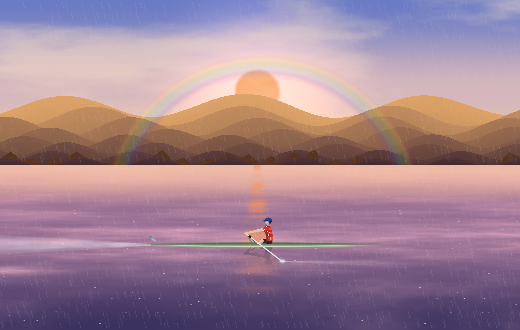
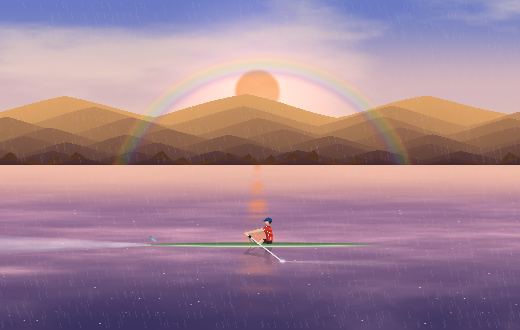
Let the peaks take angles, slowly
The hills have always been domes: the ridge is a sine, and a sine is
round. The range now has a second shape, and it takes it from the
chain - the same source as the agitation and the faster water.

u_sharp moves the crest from a sine to a triangle. The two share the
same rhythm, the same length of wave and the same amplitude, so the
range does not change size when it changes shape: the hills can take
angles without the land jumping under the boat. The pines use the same
profile as the band they stand on, so they never detach from a peak.

It is a slow evolution, not a reflex. rowing_display.js slews the
sharpness with a thirty second time constant, so the range takes about
a minute to reach the shape the chain is asking for, and gives it back
just as slowly when the chain drops. The path stops at 75%: the peaks
take angles, they do not turn into a saw blade.

The shader test draws the same scene twice with the chain down in both
and only u_sharp different - the hills breathe identically in the two
frames - and checks that the pixels still move. If the peaks did not
change shape, nothing above the horizon could.

diff --git a/tests/e2e/shader.spec.js b/tests/e2e/shader.spec.js
@@ -210,11 +210,11 @@ test('the ghost changes what the scene looks like', async ({ page }) => {
 // but u_chain, and the pixels of the LAND (the top half of the frame)
 // are compared. If the hills did not breathe, nothing up there would
 // move.
-test('the land answers the chain', async ({ page }) => {
-  const shaders = readShaders();
-
-  await page.goto('about:blank');
-  const diff = await page.evaluate(({ vs, fs }) => {
+// Draws the land twice, with the uniforms of each draw given, and
+// reports how many pixels of the top half moved. The chain and the
+// sharpness are the only things that can differ.
+async function landDiff(page, shaders, a, b) {
+  return page.evaluate(({ vs, fs, a, b }) => {
     const W = 480, H = 300;
     const canvas = document.createElement('canvas');
     canvas.width = W; canvas.height = H;
@@ -252,7 +252,7 @@ test('the land answers the chain', async ({ page }) => {
     const u = (n) => gl.getUniformLocation(prog, n);
     const pixels = new Uint8Array(W * H * 4);
 
-    function draw(chain) {
+    function draw(o) {
       gl.viewport(0, 0, W, H);
       gl.uniform1f(u('u_time'), 42.0);
       gl.uniform1f(u('u_day'), 3.0);
@@ -262,7 +262,8 @@ test('the land answers the chain', async ({ page }) => {
       gl.uniform1f(u('u_spm'), 24.0);
       gl.uniform1f(u('u_scale'), 0.6);
       gl.uniform1f(u('u_aspect'), W / H);
-      gl.uniform1f(u('u_chain'), chain);
+      gl.uniform1f(u('u_chain'), o.chain || 0);
+      gl.uniform1f(u('u_sharp'), o.sharp || 0);
       gl.uniform3f(u('u_hullA'), 0.75, 0.92, 0.70);
       gl.uniform3f(u('u_hullB'), 0.30, 0.50, 0.30);
       gl.uniform3f(u('u_shirt'), 0.85, 0.20, 0.15);
@@ -279,8 +280,8 @@ test('the land answers the chain', async ({ page }) => {
       return pixels.slice();
     }
 
-    const calm = draw(0.0);
-    const chained = draw(1.0);
+    const calm = draw(a);
+    const chained = draw(b);
 
     // Only the top half: that is the sky and the land. The boat and
     // the water are the lower half, and they answer the chain already.
@@ -299,10 +300,36 @@ test('the land answers the chain', async ({ page }) => {
       }
     }
     return { changed, total, maxDelta };
-  }, shaders);
+  }, { vs: shaders.vs, fs: shaders.fs, a, b });
+}
+
+test('the land answers the chain', async ({ page }) => {
+  const shaders = readShaders();
+
+  await page.goto('about:blank');
+  const diff = await landDiff(page, shaders, { chain: 0 }, { chain: 1 });
 
   expect(diff.error).toBeUndefined();
   // The ridge's edge moves: a band of pixels along the hills, not the
+  // whole sky.
+  expect(diff.changed).toBeGreaterThan(diff.total * 0.005);
+  expect(diff.maxDelta).toBeGreaterThan(8);
+});
+
+// The shape of the range, not only its size. The two draws below are
+// identical but for u_sharp: the chain is down in both, so the hills
+// breathe exactly the same. If the pixels move, the peaks have taken
+// angles - and nothing else could have moved them.
+test('the peaks sharpen when the rower is pushing', async ({ page }) => {
+  const shaders = readShaders();
+
+  await page.goto('about:blank');
+  const diff = await landDiff(page, shaders,
+    { chain: 0, sharp: 0 },
+    { chain: 0, sharp: 1 });
+
+  expect(diff.error).toBeUndefined();
+  // A ridge's edge moves along the hills: a band of pixels, not the
   // whole sky.
   expect(diff.changed).toBeGreaterThan(diff.total * 0.005);
   expect(diff.maxDelta).toBeGreaterThan(8);

diff --git a/rowing_display.html b/rowing_display.html
@@ -123,6 +123,7 @@
     uniform float u_day;   // index of the current 300 s day cycle, for per-day variation
     uniform float u_speed;
     uniform float u_chain;  // 0..1, how well the rower is holding above their own pace
+    uniform float u_sharp;  // 0..1, how angular the peaks are (the chain's answer)
     uniform float u_flow;
     uniform float u_phase;
     uniform float u_spm;
@@ -180,6 +181,21 @@
     }
 
     const float TAU = 6.2831853;
+
+    // The shape of a range.
+    //
+    // A sine is round: the hills are domes, and they always have been.
+    // A triangle has straight flanks and a point at the top: that is
+    // what an angular peak looks like from the water.
+    //
+    // The two share the same rhythm and the same length of wave, so the
+    // range does not change size when it changes shape - the hills can
+    // go from one to the other without the land jumping under the boat.
+    float peakProfile(float x, float sharp) {
+      float rounded = sin(x);
+      float tri = abs(fract((x + 1.5707963) / TAU + 0.5) - 0.5) * 4.0 - 1.0;
+      return mix(rounded, tri, sharp);
+    }
 
     // One layer of fairy lights: soft glowing motes drifting upward. A cell
     // holds at most one mote, kept inside the cell, so one lookup per layer
@@ -436,7 +452,8 @@
           float baseY = horizon + BASE; \
           float scrolled = u - flow * SPD; \
           float n = noise(vec2(scrolled * 8.0, baseY * 5.0)) * 0.5 - 0.25; \
-          float wave = (sin(scrolled * FREQ + PHASE) + n) * AMP * agitation; \
+          float s = peakProfile(scrolled * FREQ + PHASE, u_sharp); \
+          float wave = (s + n) * AMP * agitation; \
           float lineY = baseY + wave; \
           if (y < lineY) { \
             float t = clamp((lineY - y) / (lineY - horizon + 0.001), 0.0, 1.0); \
@@ -463,8 +480,9 @@
           float sc = u - flow * 0.40;
           float baseY = horizon + 0.01;
           // The same ridge as the nearest band, and the same agitation:
-          // the pines must not detach from the hill they stand on.
-          float ridge = baseY + (sin(sc * 44.0 + 2.0) +
+          // the pines must not detach from the hill they stand on. And
+          // the same profile: a sharp peak takes its pines with it.
+          float ridge = baseY + (peakProfile(sc * 44.0 + 2.0, u_sharp) +
                         (noise(vec2(sc * 8.0, baseY * 5.0)) * 0.5 - 0.25)) * 0.007 * agitation;
           // Individual trees are the only discrete (non-wavy) shapes
           // scrolling past, so they read as much faster than a hill band

diff --git a/tests/e2e/scene-shot.js b/tests/e2e/scene-shot.js
@@ -127,6 +127,8 @@ const SHOTS = [
       gl.uniform1f(u('u_scale'), 0.6 * (1 + 0.12 * pulse));
       gl.uniform1f(u('u_aspect'), W / H);
       gl.uniform1f(u('u_chain'), chain);
+      // The peaks follow the chain, exactly as the renderer sends them.
+      gl.uniform1f(u('u_sharp'), chain * 0.75);
       gl.uniform1f(u('u_ghostX'), ghostX);
       gl.uniform1f(u('u_ghostPhase'), 0.08);
       gl.uniform1f(u('u_ghostOn'), ghost);
@@ -186,6 +188,34 @@ const SHOTS = [
       ctx.fillText(labels[i], x, 12);
     }
     out.compare = sheet.toDataURL('image/png');
+
+    // And the same for the shape of the range: the hills alone, rounded
+    // and angular, side by side. That is the part of the scene the
+    // chain changes the shape of.
+    const PEAKS = { x: 30, y: 55, w: 230, h: 105 }, PZOOM = 1.6;
+    const peakNames = ['calm', 'chain'];
+    const peakLabels = ['collines rondes', 'pics anguleux'];
+    const psheet = document.createElement('canvas');
+    psheet.width = (PEAKS.w * PZOOM) * peakNames.length + PAD * (peakNames.length + 1);
+    psheet.height = PEAKS.h * PZOOM + PAD * 2;
+    const pctx = psheet.getContext('2d');
+    pctx.fillStyle = '#0e1016';
+    pctx.fillRect(0, 0, psheet.width, psheet.height);
+    pctx.fillStyle = '#d2d7e6';
+    pctx.font = '13px sans-serif';
+    for (let i = 0; i < peakNames.length; i++) {
+      const img = await new Promise((resolve, reject) => {
+        const im = new Image();
+        im.onload = () => resolve(im);
+        im.onerror = () => reject(new Error('image load failed'));
+        im.src = out[peakNames[i]];
+      });
+      const x = PAD + i * (PEAKS.w * PZOOM + PAD);
+      pctx.drawImage(img, PEAKS.x, PEAKS.y, PEAKS.w, PEAKS.h,
+        x, PAD, PEAKS.w * PZOOM, PEAKS.h * PZOOM);
+      pctx.fillText(peakLabels[i], x, 12);
+    }
+    out.peaks = psheet.toDataURL('image/png');
     return out;
   }, { vs: shaders.vs, fs: shaders.fs, shots: SHOTS });
 
@@ -198,5 +228,8 @@ const SHOTS = [
   const compare = path.join(OUT, 'scene-compare.png');
   fs.writeFileSync(compare, Buffer.from(pngs.compare.split(',')[1], 'base64'));
   console.log('écrit', path.relative(ROOT, compare));
+  const peaks = path.join(OUT, 'scene-peaks.png');
+  fs.writeFileSync(peaks, Buffer.from(pngs.peaks.split(',')[1], 'base64'));
+  console.log('écrit', path.relative(ROOT, peaks));
   await browser.close();
 })();

diff --git a/rowing_display.js b/rowing_display.js
@@ -75,6 +75,14 @@ var RowingAnimation = (function() {
     // an earthquake.
     var PULSE_S = 0.45;
     var PULSE_SCALE = 0.12;
+    // How quickly the shape of the range follows the chain. The land is
+    // not a reflex: the peaks take their angles over about a minute, and
+    // they give them back just as slowly.
+    var SHARP_SLEW = 1 / 30;
+    // How far the peaks ever go. They take angles, they do not turn into
+    // a saw blade: the range keeps some of its softness.
+    var SHARP_MAX = 0.75;
+    var sharpLevel = 0;
 
     function clamp01(x) { return x < 0 ? 0 : (x > 1 ? 1 : x); }
 
@@ -487,6 +495,13 @@ var RowingAnimation = (function() {
         gl.uniform1f(uniforms.uDay,    dayBase + Math.floor(sceneClock / TIME_WRAP) % 1000);
         gl.uniform1f(uniforms.uSpeed,  currentSpeed);
         gl.uniform1f(uniforms.uChain,  chainLevel);
+        // The peaks answer the chain too: the hills are round while the
+        // rower is at their own pace, and they take angles when they
+        // hold above it. The shape of the land is not a reflex, though -
+        // it moves on a long leash, so the range evolves over a minute
+        // rather than jumping from one shape to the next.
+        sharpLevel += (chainLevel - sharpLevel) * Math.min(1, dt * SHARP_SLEW);
+        gl.uniform1f(uniforms.uSharp,  sharpLevel * SHARP_MAX);
         gl.uniform1f(uniforms.uFlow,   flow);
         gl.uniform1f(uniforms.uPhase,  renderPhase);
         gl.uniform1f(uniforms.uSpm,    currentSpm);
@@ -685,6 +700,7 @@ var RowingAnimation = (function() {
             uDay:    gl.getUniformLocation(prog, 'u_day'),
             uSpeed:  gl.getUniformLocation(prog, 'u_speed'),
             uChain:  gl.getUniformLocation(prog, 'u_chain'),
+            uSharp:  gl.getUniformLocation(prog, 'u_sharp'),
             uFlow:   gl.getUniformLocation(prog, 'u_flow'),
             uPhase:  gl.getUniformLocation(prog, 'u_phase'),
             uSpm:    gl.getUniformLocation(prog, 'u_spm'),

diff --git a/ARCHITECTURE.md b/ARCHITECTURE.md
@@ -108,6 +108,14 @@ and derives the eight bands between them, which is what makes the
 distance read. `u_chain` also agitates the ridge, so the land answers the
 chain like the water already did.
 
+The ridge also takes a shape from the chain. `u_sharp` (0..1) moves the
+crest from a sine - round domes - to a triangle - straight flanks and a
+point at the top - keeping the same rhythm, the same length of wave and
+the same amplitude, so the range changes its shape without changing its
+size. It is not a reflex: `rowing_display.js` slews it with a thirty
+second time constant and caps it at 0.75, and the pines use the same
+profile as the band they stand on.
+
 Nothing here is configurable, and nothing here says anything: the livery
 changes when the history crosses a threshold, and the only announcement
 is a sweep of light along the hull (`u_livery`, 2.2 s on the real clock).

diff --git a/README.md b/README.md
@@ -354,7 +354,8 @@ XEBEX air rowers use a non-standard 20-byte FTMS payload where 16-bit values are
       configured, never spoken of
 - [x] The land answers too: the ridge and the pines take the colours of
       the biome the history has earned, and they breathe when the chain
-      is up — the ambiance Alto makes, without a word
+      is up — and slowly take angles as it holds — the ambiance Alto
+      makes, without a word
 - [x] Android Play Store release (production; versioning policy: [pgsql/API.md](pgsql/API.md#versioning-policy))
 - [ ] LISTEN/NOTIFY-based mail worker (no cron lag)
 
